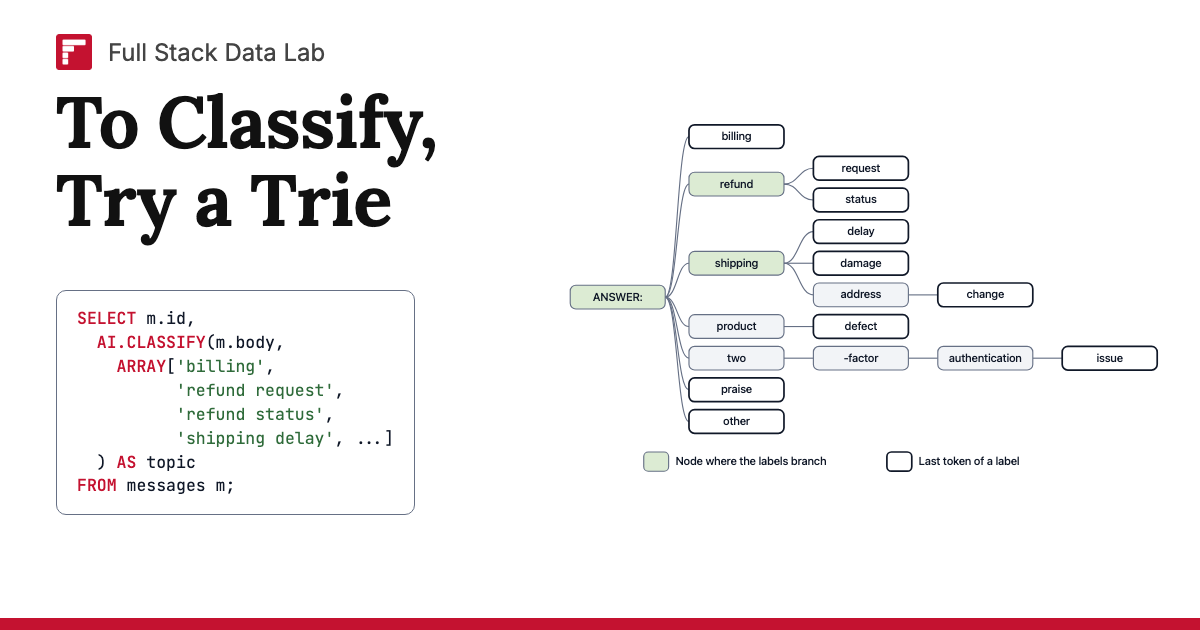
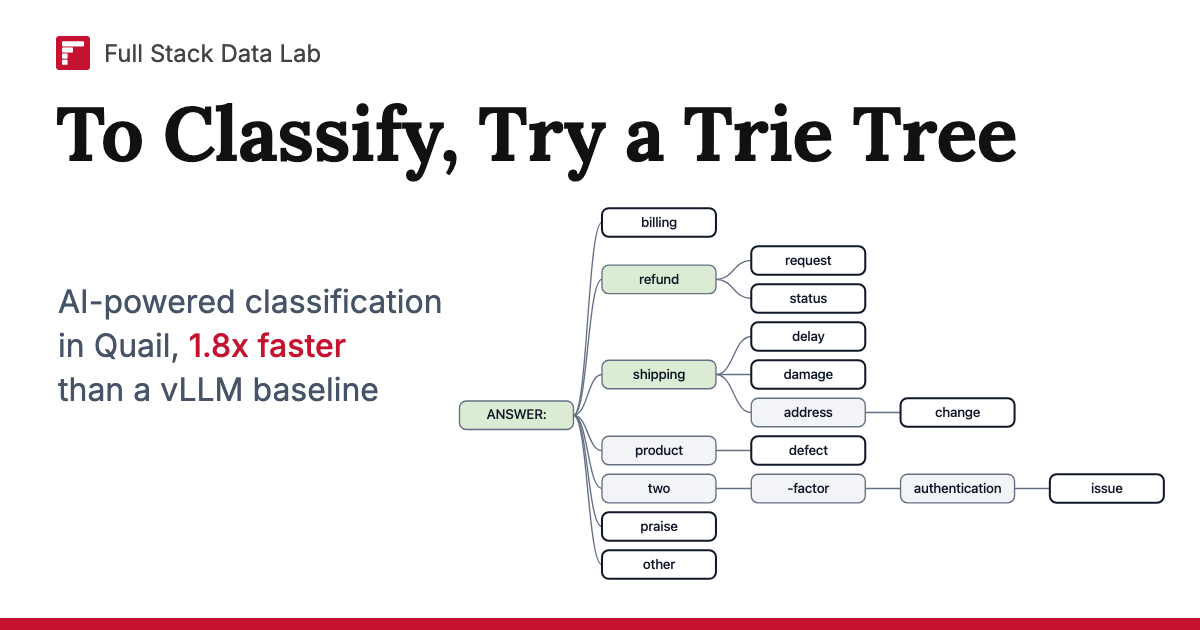
Retitle, list, and date the AI classification post October 12 (#14)

diff --git a/_posts/2026-10-12-ai-classification.md b/_posts/2026-10-12-ai-classification.md
@@ -1,11 +1,9 @@
 ---
 layout: post
-title: "To Classify, Try a Trie"
-date: 2026-10-09
+title: "To Classify, Try a Trie Tree"
+date: 2026-10-12
 author: "Shreya Shankar, Charles Frye"
 permalink: /blog/ai-classification/
-unlisted: true
-sitemap: false
 math: true
 typora-root-url: ..
 description: "How should an AI-SQL engine classify documents with LLMs at scale? We walk through the ways Quail can do it, and how it picks the cheapest one for a given LLM."
@@ -13,7 +11,7 @@ image:
   path: /assets/blog/ai-classification/social-preview.png
   width: 1200
   height: 630
-  alt: "To Classify, Try a Trie, with an AI.CLASSIFY query and the trie of its labels."
+  alt: "To Classify, Try a Trie Tree: AI-powered classification in Quail, 1.8x faster than a vLLM baseline, with the trie of the labels."
 ---
 
 <aside class="tldr"><strong>TL;DR:</strong> How should an AI-SQL engine classify documents with LLMs at scale? Most systems let the LLM generate an answer and then parse it into a label. But since <a href="https://github.com/fsdatalab/quail">Quail</a> runs the LLM inside its own inference engine, we can do <em>much</em> better &mdash; we can restrict the LLM to the labels and minimize the number of tokens it decodes! On 12 new classification queries in <a href="https://github.com/fsdatalab/quail-bench">QUAIL-B</a>, Quail is <strong>1.8x faster</strong> than a vLLM baseline.</aside>
@@ -114,7 +112,7 @@ The implementations also select the label in different ways. `trie_decode` gener
 
 ## 3.1 trie_decode: Greedily Generate the Label
 
-`trie_decode` is the implementation that is closest to what prior systems do. It generates the label one token at a time, as an LLM generates text.<sup><a href="#note-1">1</a></sup> At each step, the LLM picks the most likely token that continues a label.
+`trie_decode` is the implementation that is closest to what prior systems do. It generates the label one token at a time, as an LLM generates text.<sup><a href="#note-1">1</a></sup> At each decode step, the LLM picks the most likely token that continues a label.
 
 At a high level, we can assemble the set of labels into a *trie* ([Figure 2](#figure-2)). A trie, also called a prefix tree, stores each label as a path of tokens from the root. Labels that start with the same tokens share the start of their paths, e.g., both refund labels pass through `refund`. The root of the trie is the `ANSWER:` token. For the rest of the article, we write labels in quotes and tokens in code, e.g., the label "refund request" has the tokens `refund` and `request`.
 
@@ -123,17 +121,17 @@ At a high level, we can assemble the set of labels into a *trie* ([Figure 2](#fi
   <figcaption>Figure 2. The trie of the 10 labels in the running example. The <code>ANSWER:</code> token is the root. The labels branch at three nodes: <code>ANSWER:</code>, <code>refund</code>, and <code>shipping</code>. Each label ends at a node with a dark outline. E.g., <code>refund</code> is not a label, but <code>refund</code> followed by <code>request</code> is.</figcaption>
 </figure>
 
-The simple way to generate a label is one token per step. At each step, the LLM reads the tokens so far and picks the most likely child of the current node in the trie. E.g., to generate "shipping address change", the LLM could take 3 steps. It would pick `shipping` at `ANSWER:`, then `address`, and then `change`.
+The simple way to generate a label is one token per decode step. At each decode step, the LLM reads the tokens so far and picks the most likely child of the current node in the trie. E.g., to generate "shipping address change", the LLM could take 3 decode steps. It would pick `shipping` at `ANSWER:`, then `address`, and then `change`.
 
-Now, you might realize --- if the answer really was "shipping address change", by the time we are at the second step (`address`), we actually need not decode the `change` token, because there is no other valid token!
+Now, you might realize --- if the answer really was "shipping address change", by the time we are at the second decode step (`address`), we actually need not decode the `change` token, because there is no other valid token!
 
 More generally, the LLM only needs to make a choice where the labels branch apart in the trie, i.e., at a node with more than one child. In our running example, there are only 3 such nodes: `ANSWER:` (which first word?), `refund` (request or status?), and `shipping` (delay, damage, or address?). Everywhere else, the next token is already determined. So Quail only runs the LLM at the 3 branching nodes, and it stops as soon as there's just one label left. For instance, if the LLM picks `product` at `ANSWER:`, the answer must be "product defect", so one step and we're done!
 
-What does this look like when we classify many documents at once? [Figure 3](#figure-3) shows the steps for a batch of 10 documents. Quail computes each step for all documents in the batch together, in one forward pass. Step 0 happens in the same request as the prompt: the LLM reads the document and picks the first token at `ANSWER:`. Then, each later step sends one more request, but only for the documents whose labels aren't decided yet. In our running example, only the 5 documents that picked `refund` or `shipping` need a step 1, and the other 5 documents are already done.
+What does this look like when we classify many documents at once? [Figure 3](#figure-3) shows the decode steps for a batch of 10 documents. Quail computes each step for all documents in the batch together, in one forward pass. Step 0 happens in the same request as the prompt: the LLM reads the document and picks the first token at `ANSWER:`. Then, each later decode step sends one more request, but only for the documents whose labels aren't decided yet. In our running example, only the 5 documents that picked `refund` or `shipping` need a step 1, and the other 5 documents are already done.
 
 <figure id="figure-3" style="width: min(69.9rem, calc(100vw - 3rem));">
-  <img src="{{ '/assets/blog/ai-classification/decode-rounds.svg' | relative_url }}" alt="The steps of trie_decode for 10 documents.">
-  <figcaption>Figure 3. The steps of <code>trie_decode</code> for a batch of 10 documents, with one forward pass per step. Each document gets a different label. Step 0 is part of the same request as the prompt, and it selects the first label token at the <code>ANSWER:</code> token. Only the 5 documents that selected <code>refund</code> or <code>shipping</code> need step 1. A green box is a token that the next step sends back to the LLM. A dashed box is the token that decides the label.</figcaption>
+  <img src="{{ '/assets/blog/ai-classification/decode-rounds.svg' | relative_url }}" alt="The decode steps of trie_decode for 10 documents.">
+  <figcaption>Figure 3. The steps of <code>trie_decode</code> for a batch of 10 documents, with one forward pass per decode step. Each document gets a different label. Step 0 is part of the same request as the prompt, and it selects the first label token at the <code>ANSWER:</code> token. Only the 5 documents that selected <code>refund</code> or <code>shipping</code> need step 1. A green box is a token that the next step sends back to the LLM. A dashed box is the token that decides the label.</figcaption>
 </figure>
 
 So `trie_decode` is pretty cheap: if every label is equally likely, a document in our running example needs just 1.5 requests on average. But there is a catch --- since it is greedy, `trie_decode` only looks at the tokens on its own path. It never scores the other labels, so it can't return label probabilities. So, if the user asks for probabilities, Quail must use one of the other methods.<sup><a href="#note-2">2</a></sup>
@@ -221,8 +219,8 @@ Like all cost models in Quail, our cost models for classification are based on *
 
 ## 4.1 Workload and Notation
 
-<details class="collapsible-section" markdown="1">
-<summary id="table-1">Table 1. Symbols in the classification cost model.<span class="collapsible-note">The table is collapsible.</span></summary>
+<details class="collapsible-section proof-card" markdown="1">
+<summary id="table-1">Table 1. Symbols in the classification cost model.</summary>
 
 <div class="table-wrap" markdown="1">
 
@@ -269,9 +267,9 @@ The three methods only differ in $$q_{\text{tail}}$$ and $$a$$. [Table 2](#table
 <p class="table-caption">Table 2. Instruction length and expected answer positions per document in the running example.</p>
 </div>
 
-For projections, attention, and the MLP, we can reuse the formulas from [our blog post on AI-powered filters](/blog/ai-filter-cost-estimates/), plugging in the new $$n_{\text{tok}}$$ and $$r_i$$. But classification adds two costs that our filter cost model leaves out: loading the cached KV of the prompt, and computing scores for the whole vocabulary at the answer positions (a filter only needs the scores of TRUE and FALSE).
+For projections, attention, and the MLP, we can reuse the formulas from [our blog post on AI-powered filters](/blog/ai-filter-cost-estimates/), plugging in the new $$n_{\text{tok}}$$ and $$r_i$$. However, classification differs from filters in two ways: (1) each method has a different number of KV reads, i.e., loads a different number of cached KV tokens, and (2) classification needs the whole output head, i.e., scores for the whole vocabulary, not just TRUE and FALSE.
 
-**KV reads.** Each answer position attends to the prompt, so the GPU has to load the KV of the prompt from HBM. `letters` and `trie_tree` load it once per document, since all of their answer positions are in one request. `trie_decode` loads it once per extra step. Step 0 shares the request of the prompt, but every later step is a new request. So if $$b$$ is the expected number of requests of `trie_decode` per document (including step 0), the number of KV tokens loaded is
+**KV reads.** Each answer position attends to the prompt, so the GPU has to load the KV of the prompt from HBM. `letters` and `trie_tree` load it once per document, since all of their answer positions are in one request. `trie_decode` loads it once per extra decode step. Step 0 shares the request of the prompt, but every later decode step is a new request. So if $$b$$ is the expected number of requests of `trie_decode` per document (including step 0), the number of KV tokens loaded is
 
 $$
 \begin{aligned}
@@ -314,7 +312,7 @@ For `letters`, the extra tokens are in the prompt instead. The letters add $$2M 
 
 ## 4.3 Cost of trie_decode
 
-Unlike the other two methods, the cost of `trie_decode` depends on which label the LLM picks, because some labels need more steps than others. Quail doesn't know the labels before it runs the query, so the cost model assumes that every label is equally likely.<sup><a href="#note-8">8</a></sup>
+Unlike the other two methods, the cost of `trie_decode` depends on which label the LLM picks, because some labels need more decode steps than others. Quail doesn't know the labels before it runs the query, so the cost model assumes that every label is equally likely.<sup><a href="#note-8">8</a></sup>
 
 Each branching node on the path of a label costs one request. So if $$c_m$$ is the number of branching nodes on the path of label $$m$$, up to and including the one that decides the label, the expected number of requests per document is
 
@@ -328,9 +326,9 @@ $$
 b = \frac{5 \cdot 1 + 5 \cdot 2}{10} = 1.5.
 $$
 
-In our running example, each step adds a single token after the prompt: `ANSWER:` in step 0, and `refund` or `shipping` in step 1. So `trie_decode` runs the LLM on 1.5 tokens per document on average, beyond the prompt. Like for `trie_tree`, each token costs about 8 billion FLOPs (7.2 billion in the projections and the MLP, plus 0.78 billion for the full output head). So `trie_decode` adds only about 12 billion FLOPs per document, compared with about 32 billion for `trie_tree`.
+In our running example, each decode step adds a single token after the prompt: `ANSWER:` in step 0, and `refund` or `shipping` in step 1. So `trie_decode` runs the LLM on 1.5 tokens per document on average, beyond the prompt. Like for `trie_tree`, each token costs about 8 billion FLOPs (7.2 billion in the projections and the MLP, plus 0.78 billion for the full output head). So `trie_decode` adds only about 12 billion FLOPs per document, compared with about 32 billion for `trie_tree`.
 
-Note that the estimate assumes optimal packing, i.e., that Quail packs many documents together so that each forward pass saturates the GPU.<sup><a href="#note-9">9</a></sup> With only a few documents, a later step can run in a nearly empty forward pass, and `trie_decode` costs more than the estimate.
+Note that the estimate assumes optimal packing, i.e., that Quail packs many documents together so that each forward pass saturates the GPU.<sup><a href="#note-9">9</a></sup> With only a few documents, a later decode step can run in a nearly empty forward pass, and `trie_decode` costs more than the estimate.
 
 ## 4.4 Picking a Method
 
@@ -348,10 +346,10 @@ We ran each query with Qwen3-4B-fp8 on one H100, at scale factor 0.5, on both Qu
 
 <figure id="figure-6" style="width: min(42rem, calc(100vw - 3rem));">
   <img src="{{ '/assets/blog/ai-classification/quailb-results.svg' | relative_url }}" alt="Input tokens per second, KV regret, and cost per query for Quail and a vLLM baseline on the 12 QUAIL-B classification queries.">
-  <figcaption>Figure 6. QUAIL-B classification queries with Qwen3-4B-fp8 on one H100, at scale factor 0.5. KV regret is the share of computed tokens that are recomputed.</figcaption>
+  <figcaption>Figure 6. QUAIL-B classification queries with Qwen3-4B-fp8 on one H100, at scale factor 0.5. KV regret is the percentage of the tokens an engine computes that it already computed once before, e.g., because it evicted their KV.</figcaption>
 </figure>
 
-**Quail is faster on all 12 queries: 2.1x faster in total, and 1.8x faster per query (geometric mean).** The biggest wins come from queries that read the same documents more than once. E.g., AGENT-5 has three different `AI.CLASSIFY` operators on the same agent traces. vLLM's prefix cache evicts the least recently used KV, so by the time the next operator reads a trace, its KV is usually gone and vLLM has to recompute it (64% KV regret). Quail instead keeps the KV of the trace around for the later operators ([Section 3.4](#34-keeping-the-document-kv-for-later-operators)). Quail also runs within 1.8x to 2.8x of its SoL estimate on every query.
+**Quail is faster on all 12 queries: 2.1x faster in total, and 1.8x faster per query (geometric mean).** The biggest wins come from queries that read the same documents more than once. E.g., AGENT-5 has three different `AI.CLASSIFY` operators on the same agent traces. vLLM's prefix cache evicts the least recently used KV, so by the time the next operator reads a trace, its KV is usually gone and vLLM has to recompute it. On AGENT-5, 64% of the tokens that vLLM computes are recomputations. Quail instead keeps the KV of the trace around for the later operators ([Section 3.4](#34-keeping-the-document-kv-for-later-operators)). Quail also runs within 1.8x to 2.8x of its SoL estimate on every query.
 
 # 5. Aside: Decision Models
 
@@ -379,7 +377,7 @@ The first term is a dot product, like an attention score, and the second is a ti
 
 Like `trie_tree`, Decision 2.0 Kai gives probabilities in one request. But `trie_tree` has to score every token in the vocabulary at each answer position, while Decision 2.0 Kai only scores the $$M$$ labels.
 
-One might notice that the option blocks add a lot of tokens: about 16 tokens per label, or about 190 tokens per document in our running example, compared with 24 for `letters`. But the extra tokens buy a lot of accuracy. We ran Decision 2.0 Kai and the base Qwen3-0.6B on the 12 classification queries in [QUAIL-B](https://github.com/fsdatalab/quail-bench), on one H100. Decision 2.0 Kai agrees with the reference labels on 63.1% of documents on average, compared with just 39.0% for Qwen3-0.6B! We are really excited about these decision models and believe we can fine-tune our own decision models for AI-SQL tasks (potentially even-smaller models).
+One might notice that the option blocks add a lot of tokens: about 16 tokens per label, or about 190 tokens per document in our running example, compared with 24 for `letters`. But the extra tokens (more specifically, the trained decision head) buy a lot of accuracy. We ran Decision 2.0 Kai and the base Qwen3-0.6B on the 12 classification queries in [QUAIL-B](https://github.com/fsdatalab/quail-bench), on one H100. Decision 2.0 Kai agrees with the reference labels on 63.1% of documents on average, compared with just 39.0% for Qwen3-0.6B! We are really excited about these decision models and believe we can fine-tune our own decision models for AI-SQL tasks (potentially even-smaller models).
 
 # 6. Conclusion
 
@@ -421,7 +419,7 @@ this research.
 
 ```bibtex
 @misc{shankar2026aiclassify,
-  title = {To Classify, Try a Trie},
+  title = {To Classify, Try a Trie Tree},
   author = {Shankar, Shreya and Frye, Charles},
   year = {2026},
   month = oct,
